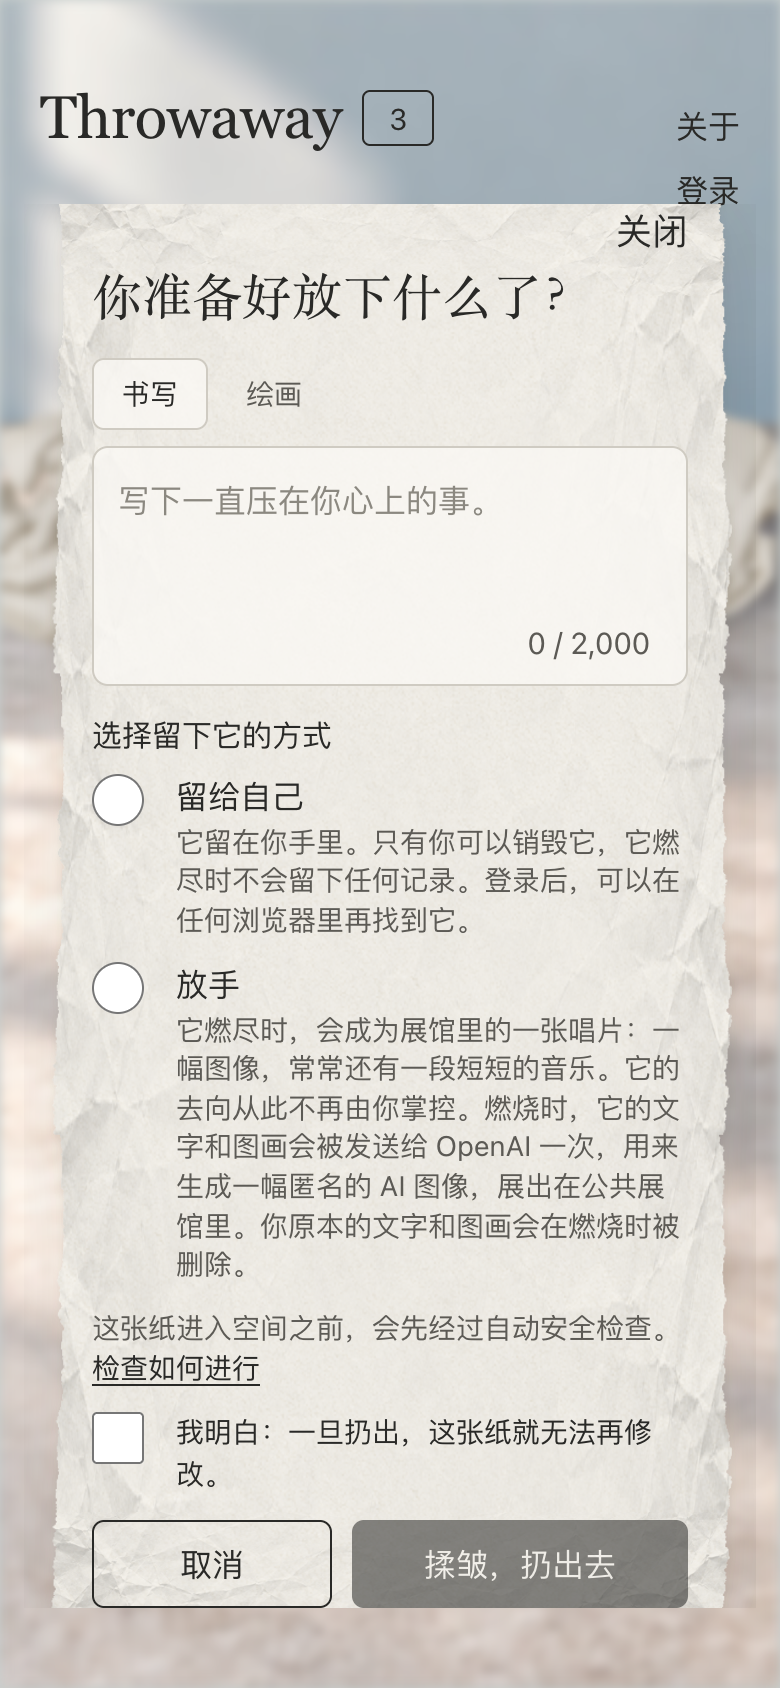
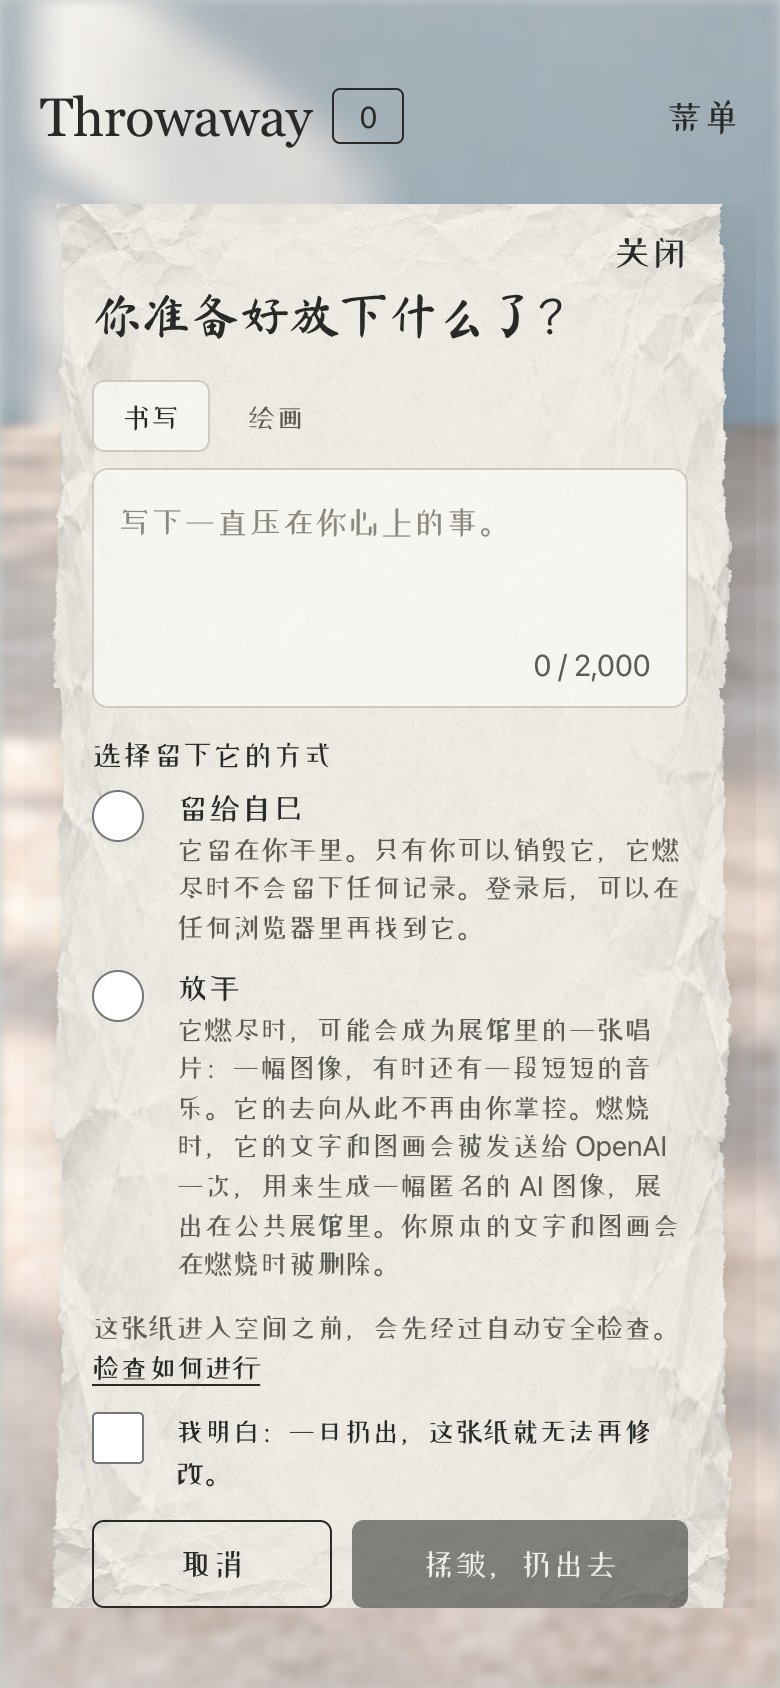
docs: recovery codes in PROCESS, before/after evidence images, runbook and ADR 009 match the live site
PROCESS: a forgotten password is now reset with the recovery code (eeeb6e5);
the reachability paragraph cites da0ef95/ae46af8; the CLAUDE.md rule after
browsers drained the laptop (8fbce09, 0b60a02); the Crit 8 empty room beside
the room now; the disc before d0b4fff (still under the sleeve, then jumping
on top) beside after it. The phone writing sheet is retaken on the current
header (Menu). The runbook says music is on since 2026-10-27, the 2026-11-09
v3 re-composition, and what listening has been done. ADR 009's options table
notes the recovery code that later met the no-email cost. READMEs: on a
phone the header links sit behind Menu.

diff --git a/PROCESS.md b/PROCESS.md
@@ -8,6 +8,9 @@ I used Codex to compare ideas and asked it to question my choices one at a time.
 
 React and Vite handle the writing and reading screens. Three.js runs the physical paper outside React's render loop, using the MIT-licensed [Paper Crumple demo](https://github.com/item-develop/paper-crumple-demo). I kept the words in HTML so a closed 3D paper reveals nothing. Express and SQLite keep the API and durable state on one Fly.io machine. That made it easier to follow an action from one visitor to another. Scaling to several machines would need another storage plan ([`83c6fdc`](https://github.com/comp4020-agentic-coding-studio/comp4020-final-aurorasundev/commit/83c6fdc), [ADR 001](docs/adr/001-sse-snapshots.md)).
 
+![The space on the first live deploy for Crit 8: a plain page with one button and no papers yet.](docs/evidence/week9/live-D01-empty-space.png)
+![The same space now: a lit room, crumpled paper on the floor, and the Gallery, sign-in and language controls.](docs/evidence/bilingual-2026-11/space-zh-desktop.png)
+
 I chose HTTP plus server-sent events in Week 10 because saving, witnessing and burning produce occasional shared changes. The server can push those changes in one direction while dragging and camera motion stay local. A reconnect reads the current snapshot, so someone who was offline will miss the old burn animation. The furnace gave that split a visible consequence. Placing a paper inside confirms destruction on the server before any fire starts. Claude built the foundation, then I brought in Codex to improve the iron, camera and ash against my references. I later asked for a regression check for the order of confirmation and fire ([`2a9f943`](https://github.com/comp4020-agentic-coding-studio/comp4020-final-aurorasundev/commit/2a9f943), [`75e3256`](https://github.com/comp4020-agentic-coding-studio/comp4020-final-aurorasundev/commit/75e3256), [`5cd0470`](https://github.com/comp4020-agentic-coding-studio/comp4020-final-aurorasundev/commit/5cd0470)).
 
 I checked this across two visitors, not one: two independent browser sessions, A and B, open on the same room. A throws a Release paper; it lands in B's room with no reload. B burns it; it turns to ash on A's screen with nothing pressed there. To see whether it held up under use I hadn't designed for, I also did a stress test ([ADR 010](docs/adr/010-persistence-and-migration-backups.md)).
@@ -19,9 +22,12 @@ For moderation, I wanted an unavailable check to leave the draft with its writer
 
 ## What changed when I used the Gallery
 
-Claude's first Gallery could browse, open and report works, but its grid and dialog felt static. I found the Goodgrowth case study and used desktop and phone references to specify paper sleeves, vinyl and an orbit. For opening a record, I could finally say what “smooth” meant to me: the disc turns behind the sleeve, clears its edge, and only then moves in front. The grid remains available for reduced motion and browsers without WebGL ([`56c226a`](https://github.com/comp4020-agentic-coding-studio/comp4020-final-aurorasundev/commit/56c226a), [`2d6b286`](https://github.com/comp4020-agentic-coding-studio/comp4020-final-aurorasundev/commit/2d6b286), [`243bca8`](https://github.com/comp4020-agentic-coding-studio/comp4020-final-aurorasundev/commit/243bca8), [`08d1c23`](https://github.com/comp4020-agentic-coding-studio/comp4020-final-aurorasundev/commit/08d1c23)).
+Claude's first Gallery could browse, open and report works, but its grid and dialog felt static. I found the Goodgrowth case study and used desktop and phone references to specify paper sleeves, vinyl and an orbit. For opening a record, I could finally say what “smooth” meant to me: the disc turns behind the sleeve, clears its edge, and only then moves in front. The grid remains available for reduced motion and browsers without WebGL ([`56c226a`](https://github.com/comp4020-agentic-coding-studio/comp4020-final-aurorasundev/commit/56c226a), [`2d6b286`](https://github.com/comp4020-agentic-coding-studio/comp4020-final-aurorasundev/commit/2d6b286), [`243bca8`](https://github.com/comp4020-agentic-coding-studio/comp4020-final-aurorasundev/commit/243bca8), [`08d1c23`](https://github.com/comp4020-agentic-coding-studio/comp4020-final-aurorasundev/commit/08d1c23), [`d0b4fff`](https://github.com/comp4020-agentic-coding-studio/comp4020-final-aurorasundev/commit/d0b4fff)).
 
-I also learned to check what a visitor could actually do. A test kept the visible collection under 48, but later works could never be reached. In the phone viewport, transparent padding blocked a visible Back button. Those defects gave me clearer things to check. Could I get to the last work? Could I press Back? Did the change from WebGL to HTML flash? For Crit 10 we also added readable log aliases, so I could tell who acted and whose attempt was refused without putting paper text or credentials in the logs ([`e7b4fcd`](https://github.com/comp4020-agentic-coding-studio/comp4020-final-aurorasundev/commit/e7b4fcd), [`51cc127`](https://github.com/comp4020-agentic-coding-studio/comp4020-final-aurorasundev/commit/51cc127), [`6c26f06`](https://github.com/comp4020-agentic-coding-studio/comp4020-final-aurorasundev/commit/6c26f06)).
+![Before the fix: the disc reached its resting place still under the sleeve, then jumped on top of it.](docs/evidence/gallery-rev-2026-10-20/1920x1080-open-4000.jpg)
+![After the fix: it slides out behind the sleeve until it clears the edge, and only then comes back in front.](docs/evidence/gallery-rev2-2026-10-20/1920x1080-open-3800.jpg)
+
+I also learned to check what a visitor could actually do. A test kept the visible collection under 48, but later works could never be reached. In the phone viewport, transparent padding blocked a visible Back button. Those defects gave me clearer things to check. Could I get to the last work? Could I press Back? Did the change from WebGL to HTML flash? For Crit 10 we also added readable log aliases, so I could tell who acted and whose attempt was refused without putting paper text or credentials in the logs ([`da0ef95`](https://github.com/comp4020-agentic-coding-studio/comp4020-final-aurorasundev/commit/da0ef95), [`ae46af8`](https://github.com/comp4020-agentic-coding-studio/comp4020-final-aurorasundev/commit/ae46af8), [`51cc127`](https://github.com/comp4020-agentic-coding-studio/comp4020-final-aurorasundev/commit/51cc127), [`6c26f06`](https://github.com/comp4020-agentic-coding-studio/comp4020-final-aurorasundev/commit/6c26f06)). Those browser checks had a cost: headless Chromium and Docker were left running and drained my laptop. Instead of asking again, I added a `CLAUDE.md` rule to shut down whatever a task starts, then moved the checks onto the Mac's GPU rather than software rendering ([`8fbce09`](https://github.com/comp4020-agentic-coding-studio/comp4020-final-aurorasundev/commit/8fbce09), [`0b60a02`](https://github.com/comp4020-agentic-coding-studio/comp4020-final-aurorasundev/commit/0b60a02)).
 
 I wanted burning to end the paper's life. We moved extraction of the creative brief to ignition. The server clears the original as part of the burn. If extraction fails, the paper leaves no record. The brief gives the Gallery an image and, when available, a score that Web Audio plays in the browser. After music went live, I listened and found the pieces too similar. I wanted to hear what a feeling could turn into after the burn. I chose to have sadness turn towards brightness and anger towards calm, and asked Claude to expand the colours, timbres and tempo to make that range possible. The new direction is now deployed ([`05f31e7`](https://github.com/comp4020-agentic-coding-studio/comp4020-final-aurorasundev/commit/05f31e7), [`fdd30bd`](https://github.com/comp4020-agentic-coding-studio/comp4020-final-aurorasundev/commit/fdd30bd), [`74c1291`](https://github.com/comp4020-agentic-coding-studio/comp4020-final-aurorasundev/commit/74c1291), [ADR 008](docs/adr/008-rebirth-reversal.md)).
 
@@ -29,7 +35,7 @@ I checked publication and listening separately. In an isolated database, two of 
 
 ## Giving people a reason to come back
 
-My tutor asked why someone would return, and two friends asked how they could see their own papers again. I had avoided accounts because I wanted the room to feel anonymous. But a return key only restored my right to burn a Keep. I could still spend a visit looking for it. I also wanted to hear the record my own paper had become. I chose an optional account with a private panel and kept the room and Gallery anonymous to others. I chose to collect no email address, which means a forgotten password cannot be recovered. In the panel I separated the papers I can still let go from the ones I have handed over to readers, and put their resulting records below ([`0642dae`](https://github.com/comp4020-agentic-coding-studio/comp4020-final-aurorasundev/commit/0642dae), [`2a507e1`](https://github.com/comp4020-agentic-coding-studio/comp4020-final-aurorasundev/commit/2a507e1), [ADR 009](docs/adr/009-optional-accounts.md)).
+My tutor asked why someone would return, and two friends asked how they could see their own papers again. I had avoided accounts because I wanted the room to feel anonymous. But a return key only restored my right to burn a Keep. I could still spend a visit looking for it. I also wanted to hear the record my own paper had become. I chose an optional account with a private panel and kept the room and Gallery anonymous to others. I chose to collect no email address, which at first meant a forgotten password could not be recovered. I later added a recovery code, shown once at sign-up, so the password can be reset without email ([`eeeb6e5`](https://github.com/comp4020-agentic-coding-studio/comp4020-final-aurorasundev/commit/eeeb6e5)). In the panel I separated the papers I can still let go from the ones I have handed over to readers, and put their resulting records below ([`0642dae`](https://github.com/comp4020-agentic-coding-studio/comp4020-final-aurorasundev/commit/0642dae), [`2a507e1`](https://github.com/comp4020-agentic-coding-studio/comp4020-final-aurorasundev/commit/2a507e1), [ADR 009](docs/adr/009-optional-accounts.md)).
 
 We checked the account migration and permissions, tested the panel in local Chromium at the course's desktop and phone sizes, and backed up the live database before deployment. I tried the account flow myself on the live site and it worked. That was the final check I wanted for the change in how someone comes back to Throwaway ([browser evidence](docs/evidence/accounts-2026-11/README.md), [release run 41795798041](https://github.com/comp4020-agentic-coding-studio/comp4020-final-aurorasundev/actions/runs/41795798041)).
 

diff --git a/docs/artifacts-runbook.md b/docs/artifacts-runbook.md
@@ -125,11 +125,12 @@ stop and new burns read nothing, everything else continues, and jobs that
 already have a brief wait. Hiding objects works
 while paused.
 
-## Record music (Web Audio) — implemented, off by default
+## Record music (Web Audio) — on in production since 2026-10-27
 
 The [music design](../design/gallery/record-exhibition/music-design.md) and
 [ADR 006](adr/006-browser-synthesised-record-music.md) are implemented behind
-`GALLERY_MUSIC_ENABLED`, which is **off** unless set to `1`. There is no
+`GALLERY_MUSIC_ENABLED`. The code treats it as **off** unless it is set to
+`1`; the owner set it to `1` in production on 2026-10-27. There is no
 music-service key, audio endpoint, audio file, music quota or extra model
 request: the score is composed locally on the server, and the sound is
 synthesized in the visitor's browser only after they press Play.
@@ -164,8 +165,9 @@ when music is off.
   `NULL`; the image still publishes, and no substitute sound is made.
 - New scores are composed by the current composer, `throwaway-score-v3`.
   Each stored score keeps the `composer_version` it was made with (v1, v2 or
-  v3) and is never recomposed; the browser validates and plays all three
-  with the same renderer. A changed composer is always a new version
+  v3) and is never recomposed automatically; the browser validates and plays
+  all three with the same renderer. The one deliberate exception is the
+  owner's 2026-11-09 re-composition of the v1/v2 records with v3 (above). A changed composer is always a new version
   ([ADR 006](adr/006-browser-synthesised-record-music.md)).
 - The stored score holds only versions, the seed, tempo, timbre, ending,
   reverb mix and up to 96 note events (time, length, MIDI pitch, velocity).
@@ -208,7 +210,11 @@ own. No audio is cached beyond the one in-memory buffer.
    volume, so an off-machine copy is still worth taking.
 2. Listen first: in a real desktop browser and a real phone (including iOS
    Safari), check all four timbres and endings for clicks, harshness and
-   level, and time the first render. None of this has been verified yet.
+   level, and time the first render. The owner has listened on desktop and
+   an outside listener compared two tracks
+   ([ADR 008](adr/008-rebirth-reversal.md#listening-check)); iOS Safari's
+   audio unlock and first-render time on a physical phone are still
+   unverified (ADR 006).
 3. Set `GALLERY_MUSIC_ENABLED=1` as a Fly secret and restart. Only images
    published from then on get scores.
 

diff --git a/docs/adr/009-optional-accounts.md b/docs/adr/009-optional-accounts.md
@@ -28,7 +28,7 @@ thing: how do I see my own papers again? The return key never answered it.
 | --- | --- | --- |
 | Keep return keys | no personal data | a Keep stays findable only by chance; a released paper's record is never yours to find |
 | Return keys plus a private list | finds papers without a password | a lost or leaked key is the whole account; a 32-character key is hard to keep |
-| **Optional username and password, no email; a private panel** | familiar; a guest can still start without signing up | a password to store well; no recovery without email; a private owner link is read |
+| **Optional username and password, no email; a private panel** | familiar; a guest can still start without signing up | a password to store well; no recovery without email (later met by a recovery code, see the revision below); a private owner link is read |
 | Accounts with email | password recovery | personal data to hold and protect; needs a sending domain the project doesn't have |
 
 ## Decision

diff --git a/README.zh.md b/README.zh.md
@@ -59,7 +59,7 @@ Weiser 和 Brown 的
 
 [打开房间](https://comp4020-final-aurorasundev.fly.dev/)。你无需注册就可以开始。
 一个 Cookie 会给这个浏览器一个匿名身份。另一个浏览器配置文件或无痕窗口，就是另一位来访者。
-想在其他浏览器里找回你的纸，请使用右上角的 **登录**。
+想在其他浏览器里找回你的纸，请使用右上角的 **登录**。在手机上，这些链接收在右上角的 **菜单** 里。
 
 ### 留下一张纸
 

diff --git a/README.md b/README.md
@@ -84,7 +84,8 @@ through less clearly. [Listening notes](https://github.com/comp4020-agentic-codi
 without signing up. This browser remembers you as an anonymous visitor.
 If you have an account, use **Sign in** at the top right to pick up your
 papers on another browser. Choose **中 / EN** in the header to change the
-interface language.
+interface language. On a phone, these links sit behind **Menu** at the
+top right.
 
 ### Leave a paper
 
